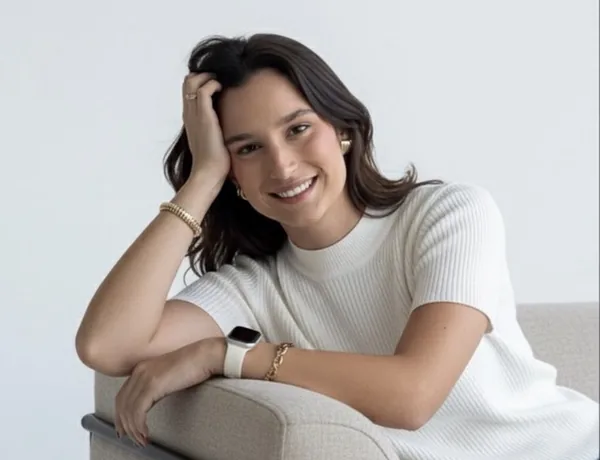
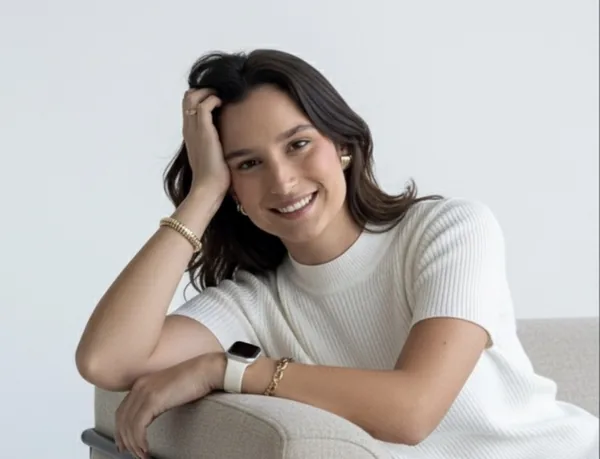
Temporário: ajustes da Amanda Ribeiro também em /clientes/amanda-ribeiro/
Claude-Session: https://claude.ai/code/session_019fgy7BXVWUNQqpGT8GgkPz

Changed region(s): [[0.12, 0.061, 1.0, 1.0], [0.99, 0.976, 1.0, 1.0], [0.96, 0.9455, 0.99, 0.976]]

diff --git a/clientes/amanda-ribeiro/index.html b/clientes/amanda-ribeiro/index.html
@@ -51,7 +51,7 @@
       </ul>
     </nav>
     <div class="acoes">
-      <a class="btn btn-p" href="https://wa.me/5527998142609?text=Ol%C3%A1%2C%20Amanda!%20Vim%20pelo%20site%20e%20gostaria%20de%20agendar%20um%20hor%C3%A1rio." target="_blank" rel="noopener" data-zap>Agendar pelo WhatsApp</a>
+      <a class="btn btn-p" href="https://wa.me/5527997622510?text=Ol%C3%A1!%20Vim%20pelo%20site%20e%20gostaria%20de%20agendar%20um%20hor%C3%A1rio." target="_blank" rel="noopener" data-zap>Agendar pelo WhatsApp</a>
       <button class="abre-menu" type="button" aria-expanded="false" aria-controls="gaveta" aria-label="Abrir menu"><svg viewBox="0 0 24 24" width="22" height="22" aria-hidden="true"><path d="M4 7h16M4 12h16M4 17h16" stroke="currentColor" stroke-width="1.8" stroke-linecap="round"/></svg></button>
     </div>
   </div>
@@ -76,7 +76,7 @@
         <p class="frase revela" style="--d:120ms">Compreender antes de corrigir.</p>
         <p class="sub revela" style="--d:180ms">Psicoterapia para crianças, adolescentes e jovens de 5 a 26 anos, com a família participando do processo. Atendimento presencial em Vitória (ES) e online para todo o Brasil.</p>
         <div class="botoes revela" style="--d:240ms">
-          <a class="btn btn-claro" href="https://wa.me/5527998142609?text=Ol%C3%A1%2C%20Amanda!%20Vim%20pelo%20site%20e%20gostaria%20de%20agendar%20um%20hor%C3%A1rio." target="_blank" rel="noopener" data-zap><svg class="ico" aria-hidden="true"><use href="#i-zap"/></svg>Agendar pelo WhatsApp</a>
+          <a class="btn btn-claro" href="https://wa.me/5527997622510?text=Ol%C3%A1!%20Vim%20pelo%20site%20e%20gostaria%20de%20agendar%20um%20hor%C3%A1rio." target="_blank" rel="noopener" data-zap><svg class="ico" aria-hidden="true"><use href="#i-zap"/></svg>Agendar pelo WhatsApp</a>
           <a class="btn btn-contorno" href="#atendimentos">Conhecer os atendimentos</a>
         </div>
       </div>
@@ -88,7 +88,7 @@
 
   <section class="secao" id="sobre" aria-labelledby="t-sobre">
     <div class="wrap sobre">
-      <figure class="foto-sobre revela"><img src="assets/img/sobre-600.webp" srcset="assets/img/sobre-600.webp 600w, assets/img/sobre-900.webp 900w" sizes="(min-width: 960px) 520px, 100vw" width="600" height="460" loading="lazy" decoding="async" alt="Amanda Ribeiro sorrindo, apoiada no braço de uma poltrona."></figure>
+      <figure class="foto-sobre revela"><img src="assets/img/sobre-600.webp" srcset="assets/img/sobre-600.webp 600w, assets/img/sobre-900.webp 900w, assets/img/sobre-1143.webp 1143w" sizes="(min-width: 960px) 520px, 100vw" width="600" height="459" loading="lazy" decoding="async" alt="Amanda Ribeiro sorrindo, apoiada no braço de uma poltrona."></figure>
       <div class="sobre-txt">
         <p class="olho revela">Sobre mim</p>
         <h2 class="titulo revela" id="t-sobre">Olá, sou a Amanda.</h2>
@@ -216,7 +216,7 @@
         <div class="acc-item"><h3><button class="acc-q" type="button" aria-expanded="false" aria-controls="r4" id="p4">Você conversa com a escola?<span class="mais" aria-hidden="true"></span></button></h3><div class="acc-a" id="r4" role="region" aria-labelledby="p4"><div><p>Sim, quando necessário. No atendimento de crianças e adolescentes, a visita escolar faz parte dos serviços oferecidos, e tudo é devidamente documentado.</p></div></div></div>
         <div class="acc-item"><h3><button class="acc-q" type="button" aria-expanded="false" aria-controls="r5" id="p5">O que é a avaliação psicológica?<span class="mais" aria-hidden="true"></span></button></h3><div class="acc-a" id="r5" role="region" aria-labelledby="p5"><div><p>Um processo com anamnese, aplicação de testes psicológicos em sessões de 1 hora e uma reunião de devolutiva com a entrega do laudo. A quantidade de sessões varia de caso para caso.</p></div></div></div>
         <div class="acc-item"><h3><button class="acc-q" type="button" aria-expanded="false" aria-controls="r6" id="p6">Como funciona o atendimento online?<span class="mais" aria-hidden="true"></span></button></h3><div class="acc-a" id="r6" role="region" aria-labelledby="p6"><div><p>Por vídeo, no Google Meet. O link é enviado 5 minutos antes do horário, e as sessões podem ser semanais ou quinzenais.</p></div></div></div>
-        <div class="acc-item"><h3><button class="acc-q" type="button" aria-expanded="false" aria-controls="r7" id="p7">Como sei os valores e os horários?<span class="mais" aria-hidden="true"></span></button></h3><div class="acc-a" id="r7" role="region" aria-labelledby="p7"><div><p>É só chamar no WhatsApp. Eu envio as informações e os horários disponíveis.</p></div></div></div>
+        <div class="acc-item"><h3><button class="acc-q" type="button" aria-expanded="false" aria-controls="r7" id="p7">Como sei os valores e os horários?<span class="mais" aria-hidden="true"></span></button></h3><div class="acc-a" id="r7" role="region" aria-labelledby="p7"><div><p>É só chamar no WhatsApp. Minha equipe enviará as informações e os horários disponíveis.</p></div></div></div>
       </div>
     </div>
   </section>
@@ -228,7 +228,7 @@
         <h2 class="titulo revela" id="t-cont">Vamos conversar?</h2>
         <p class="apoio revela">Atendimento presencial em Vitória, Espírito Santo, e online para todo o Brasil. Entre em contato pelo WhatsApp para esclarecer dúvidas e agendar seu horário.</p>
         <ul class="canais revela">
-          <li><svg class="ico" aria-hidden="true"><use href="#i-zap"/></svg><span><b>WhatsApp</b><a href="https://wa.me/5527998142609" target="_blank" rel="noopener" data-zap>(27) 99814-2609</a></span></li>
+          <li><svg class="ico" aria-hidden="true"><use href="#i-zap"/></svg><span><b>WhatsApp</b><a href="https://wa.me/5527997622510" target="_blank" rel="noopener" data-zap>(27) 99762-2510</a></span></li>
           <li><svg class="ico" aria-hidden="true"><use href="#i-insta"/></svg><span><b>Instagram</b><a href="https://www.instagram.com/psiamandaribeiroo/" target="_blank" rel="noopener">@psiamandaribeiroo</a></span></li>
           <li><svg class="ico" aria-hidden="true"><use href="#i-pin"/></svg><span><b>Presencial</b>Ed. Enseada Trade Center, sala 619 · Rua Professor Almeida Cousin, 125 · Enseada do Suá, Vitória (ES)</span></li>
           <li><svg class="ico" aria-hidden="true"><use href="#i-video"/></svg><span><b>Online</b>Por vídeo, pela plataforma Google Meet</span></li>
@@ -243,6 +243,7 @@
           <label><input type="radio" name="quem" value="um(a) adolescente"><span>Adolescente</span></label>
           <label><input type="radio" name="quem" value="um(a) jovem de 18 a 26 anos"><span>Jovem (18 a 26)</span></label>
         </div></fieldset>
+        <div class="campo"><label for="ag-paciente">Para quem será o atendimento? <span class="opc">(opcional)</span></label><input id="ag-paciente" name="paciente" autocomplete="off" placeholder="Ex.: nome do seu filho ou filha"></div>
         <fieldset class="campo"><legend>Atendimento</legend><div class="pilulas">
           <label><input type="radio" name="serv" value="psicoterapia presencial"><span>Psicoterapia presencial</span></label>
           <label><input type="radio" name="serv" value="avaliação psicológica"><span>Avaliação psicológica</span></label>
@@ -260,13 +261,13 @@
     <div class="rod-topo">
       <div><p class="rod-nome">Amanda Ribeiro</p><p>Psicóloga infantojuvenil · CRP 16/11644</p></div>
       <div><p>Ed. Enseada Trade Center, sala 619 · Rua Professor Almeida Cousin, 125 · Enseada do Suá, Vitória (ES)</p></div>
-      <div class="rod-links"><a href="https://wa.me/5527998142609" target="_blank" rel="noopener" data-zap>WhatsApp</a><a href="https://www.instagram.com/psiamandaribeiroo/" target="_blank" rel="noopener">Instagram</a></div>
+      <div class="rod-links"><a href="https://wa.me/5527997622510" target="_blank" rel="noopener" data-zap>WhatsApp</a><a href="https://www.instagram.com/psiamandaribeiroo/" target="_blank" rel="noopener">Instagram</a></div>
     </div>
     <p class="emergencia">Este site não é um serviço de emergência. Em situação de crise, ligue <a href="tel:188">188</a> (CVV) ou <a href="tel:192">192</a> (SAMU).</p>
     <p class="credito">Site por <a href="https://estudiohk.com.br/" target="_blank" rel="noopener">EstudioHK</a></p>
   </div>
 </footer>
 
-<div class="barra-m" id="barra-m" aria-hidden="true"><a class="btn btn-p" href="https://wa.me/5527998142609?text=Ol%C3%A1%2C%20Amanda!%20Vim%20pelo%20site%20e%20gostaria%20de%20agendar%20um%20hor%C3%A1rio." target="_blank" rel="noopener" tabindex="-1" data-zap><svg class="ico" aria-hidden="true"><use href="#i-zap"/></svg>Agendar pelo WhatsApp</a></div>
+<div class="barra-m" id="barra-m" aria-hidden="true"><a class="btn btn-p" href="https://wa.me/5527997622510?text=Ol%C3%A1!%20Vim%20pelo%20site%20e%20gostaria%20de%20agendar%20um%20hor%C3%A1rio." target="_blank" rel="noopener" tabindex="-1" data-zap><svg class="ico" aria-hidden="true"><use href="#i-zap"/></svg>Agendar pelo WhatsApp</a></div>
 </body>
 </html>

diff --git a/clientes/amanda-ribeiro/assets/amanda.js b/clientes/amanda-ribeiro/assets/amanda.js
@@ -5,7 +5,7 @@
   var $$ = function (s, r) { return Array.prototype.slice.call((r || document).querySelectorAll(s)); };
   var reduz = window.matchMedia('(prefers-reduced-motion: reduce)').matches;
   var temIO = 'IntersectionObserver' in window;
-  var ZAP = '5527998142609';
+  var ZAP = '5527997622510';
 
   /* ---------- menu ---------- */
   var btnMenu = $('.abre-menu'), gaveta = $('#gaveta');
@@ -97,7 +97,8 @@
   form.addEventListener('input', atualizar); form.addEventListener('change', atualizar);
   form.addEventListener('submit', function (e) {
     e.preventDefault(); atualizar(); if (btn.disabled) return;
-    var t = 'Olá, Amanda! Meu nome é ' + nome.value.trim() + ' e vim pelo site. Gostaria de agendar ' + marcado('serv') + ' para ' + marcado('quem') + '.';
+    var pac = $('#ag-paciente').value.trim();
+    var t = 'Olá! Meu nome é ' + nome.value.trim() + ' e vim pelo site. Gostaria de agendar ' + marcado('serv') + ' para ' + marcado('quem') + (pac ? ', o(a) ' + pac : '') + '.';
     window.open('https://wa.me/' + ZAP + '?text=' + encodeURIComponent(t), '_blank', 'noopener');
   });
   atualizar();

diff --git a/clientes/amanda-ribeiro/assets/amanda.css b/clientes/amanda-ribeiro/assets/amanda.css
@@ -225,6 +225,7 @@ button, input { font: inherit; color: inherit; }
 .pilulas input:checked + span { background: var(--azul); border-color: var(--azul); color: var(--creme); }
 .pilulas input:focus-visible + span { outline: 3px solid var(--terra-txt); outline-offset: 2px; }
 .pilulas input:disabled + span { opacity: .4; cursor: not-allowed; text-decoration: line-through; }
+.opc { font-weight: 400; color: var(--apoio); }
 .nota { font-size: 14px; line-height: 21px; color: var(--apoio); }
 .nota[hidden] { display: none; }
 .form .btn { width: 100%; }
